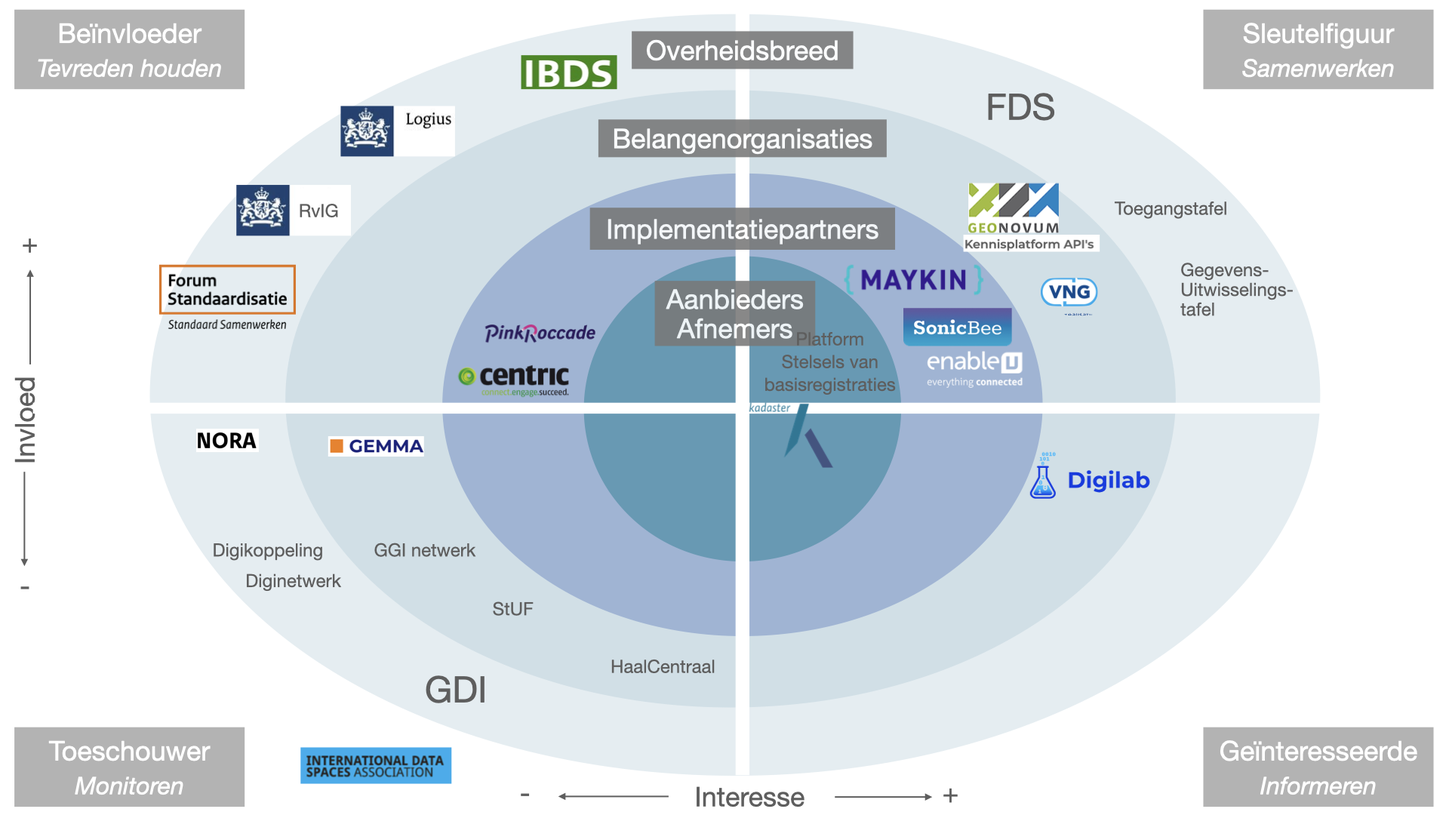
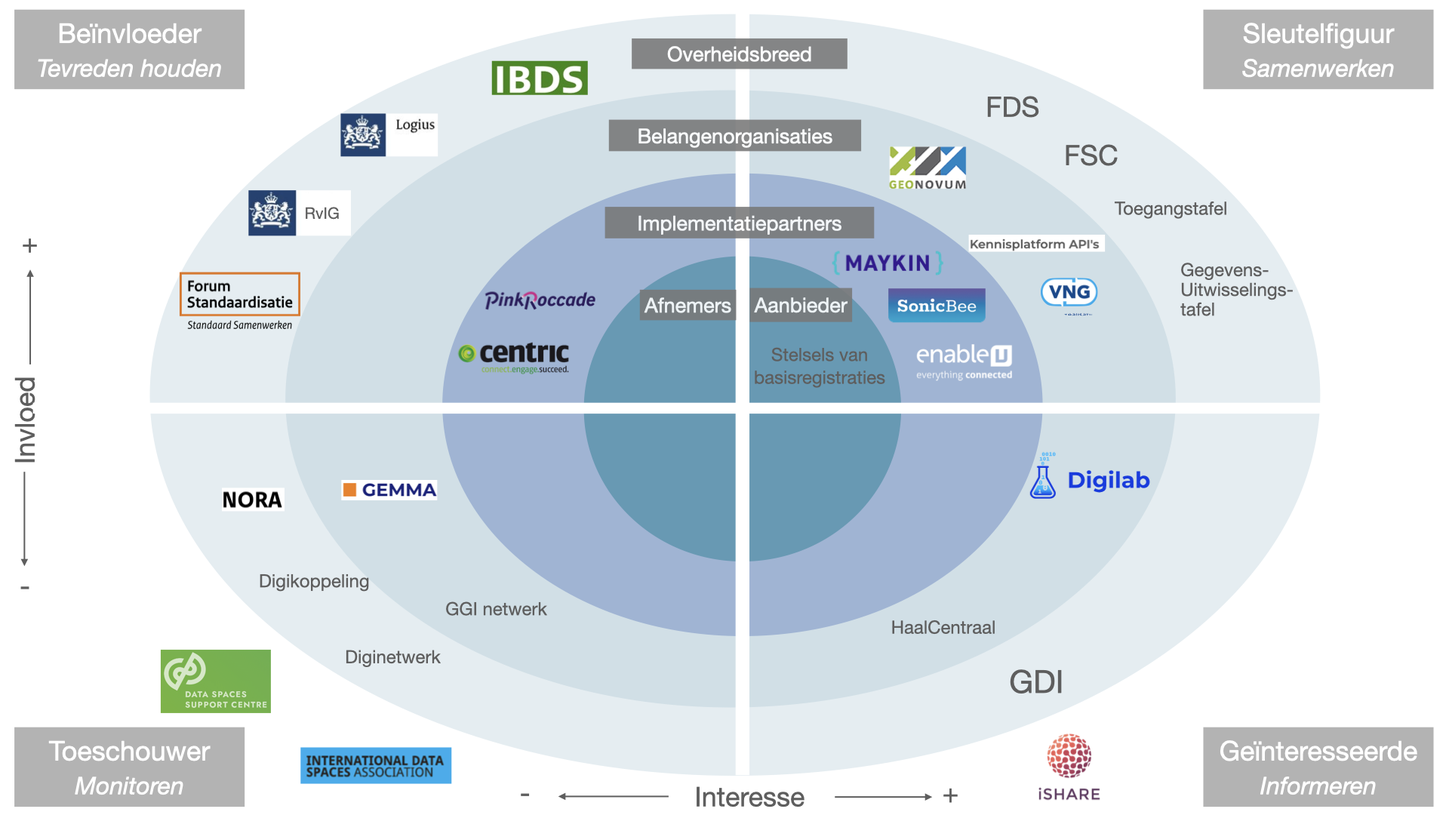
meer loop in het verhaal gebracht

diff --git a/project_documentatie/2.3.0moderne_oplossingsrichtingen.md b/project_documentatie/2.3.0moderne_oplossingsrichtingen.md
@@ -1,64 +1,66 @@
 # Inventarisatie van moderne oplossingen
 
+Om te komen tot mogelijke oplossingsrichtingen inventariseren we eerst de eisen die context
+aan een oplossing stelt, en vervolgens de nadelen aan de bestaande oplossing. 
+Hiermee kunnen we toetsen of de oplossing aan de gevraagde eisen en voordelen tegemoet komt.
+
 ## Relevante richtlijnen vanuit de overheid
 Als overheidsbreed initiatief valt FTV onder GDI. De doelarchitectuur zal zich daarom richten naar de domeinarchitecturen 
 [toegang](https://minbzk.github.io/gdi-toegang/content/views/Domeinarchitectuur%20toegang.html) en
 [gegevensuitwisseling](https://minbzk.github.io/gdi-gegevensuitwisseling/content/views/Domeinarchitectuur%20gegevensuitwisseling.html).
-
 Dit zijn de relevante ontwikkelingen rondom toegangsverlening die vanuit de GDI zijn gesignaleerd:
-- [Contextuele toegangscontrole](https://minbzk.github.io/gdi-toegang/content/elements/id-3a8d1d87c09c4893ab51905141811cbf.html): 
+1. [**Contextuele toegangscontrole**](https://minbzk.github.io/gdi-toegang/content/elements/id-3a8d1d87c09c4893ab51905141811cbf.html): 
 gebruik maken van gegevens uit de context, zoals locatie, apparaat, tijd etc.
-- [Adapatieve toegangscontrole](https://minbzk.github.io/gdi-toegang/content/elements/id-7f4dc8e8532147a7bcaa8b5846799154.html): 
+2. [**Adaptieve toegangscontrole**](https://minbzk.github.io/gdi-toegang/content/elements/id-7f4dc8e8532147a7bcaa8b5846799154.html): 
 veranderend gebruikersgedrag meewegen in toegang. Bijvoorbeeld vanuit een ander land of apparaat inloggen kan een reden zijn om 
 de toegangsverlening aan te passen.
-- [Het zero trust principe](https://minbzk.github.io/gdi-toegang/content/elements/id-be3e1d7fce8c415190791ff10295f078.html): 
+3. [**Het zero trust principe**](https://minbzk.github.io/gdi-toegang/content/elements/id-be3e1d7fce8c415190791ff10295f078.html): 
 niet alleen de buitenschil controleren en daarbinnen volledige toegang geven, maar meer compartimentalisatie, en dan toegangscontrole per compartiment.
-- [Verklaringen](https://minbzk.github.io/gdi-toegang/content/elements/id-44448c40cae246fb9a87e33446f0c0d4.html):
+4. [**Verklaringen**](https://minbzk.github.io/gdi-toegang/content/elements/id-44448c40cae246fb9a87e33446f0c0d4.html):
 het gebruik van gekwalificeerde verklaringen in plaats van rollen, waardoor afgifte en gebruik van attributen van elkaar losgekoppeld worden.
 Beide partijen kennen en erkennen de verklaringen, en kunnen op basis daarvan toegang verlenen.
 Dit kan de toegangsverlening significant eenvoudiger maken, omdat de dienst en de toegang niet op voorhand elkaar hoeven te kennen.
-Dit heet ook wel Attribute Based Credentials (ABC). 
-  - eIDAS 2.0 introduceert de European Digital Identity (EDI) Wallet, waarvan gekwalificeerde verklaring onderdeel zijn. 
-  In Nederlands moet het EDI-stelsel NL daar invulling aan gaan geven. Hierin is nog veel onbekend.
-  - Hier [een onderzoek](https://www.cs.ru.nl/~jhh/publications/abc-of-abcs.pdf)
-- Wissel alleen strikt noodzakelijke gegevens uit. Dit principe heeft een aantal voor toegangsverlening relevante implicaties:
-  - De grondslag en doelbinding van een uitwisseling moet bekend zijn
-  - Per dienst moet bekend zijn welke gegevens noodzakelijk zijn
-  - Voor bevoegde autoriteiten, zoals opsporing, moet het wel mogelijk zijn pseudoniemen te herleiden naar personen of organisaties.
+Dit heet ook wel Attribute Based Credentials (ABC).
+5. **Wissel alleen strikt noodzakelijke gegevens uit**. Dit principe heeft een aantal voor toegangsverlening relevante implicaties:
+   - De grondslag en doelbinding van een uitwisseling moet bekend zijn
+   - Per dienst moet bekend zijn welke gegevens noodzakelijk zijn
+   - Voor bevoegde autoriteiten, zoals opsporing, moet het wel mogelijk zijn pseudoniemen te herleiden naar personen of organisaties.
 
 ## Nadelen aan de huidige toegangsverlening 
 
-### Controle alleen door aanbieder
+1. **Controle alleen door aanbieder.**
 Traditioneel wordt toegangsverlening bepaald en gecontroleerd door de aanbieder.
 Er wordt van tevoren per dienst per afnemer een contract gesloten.
 Vervolgens vraagt de afnemer naar behoefte op, en toetst de aanbieder elke vraag aan het contract.
 
-Hier zitten nadelen aan:
-- Als er veel afnemers zijn, zijn er ook veel contracten. Die vragen veel beheersinspanning, ICT maar vooral ook juridisch.
-- De controleplicht ligt geheel bij de aanbieder. Dit is:
-  - onevenredig veel werk
-  - niet altijd praktisch uitvoerbaar, omdat toegang afhankelijk kan zijn van eigenschappen van de afnemer. 
-De aanbieder kan en wil niet op de hoogte zijn van details van elke afnemer.
-  - niet per se rechtvaardig, omdat afnemers meestal meer baat hebben bij de dienst dan de aanbieders
-  - niet altijd juridisch juist: de afnemer moet verantwoording afleggen aan een bestuursorgaan over verantwoord datagebruik, niet de aanbieder 
-- Verandering van de regels van een dienst vergt aanpassing van alle contracten 
+    Hier zitten nadelen aan:
+   - Als er veel afnemers zijn, zijn er ook veel contracten. Die vragen veel beheerinspanning, ICT maar vooral ook juridisch.
+   - De controleplicht ligt geheel bij de aanbieder. Dit is:
+     - onevenredig veel werk
+     - niet altijd praktisch uitvoerbaar, omdat toegang afhankelijk kan zijn van eigenschappen van de afnemer. 
+   De aanbieder kan en wil niet op de hoogte zijn van details van elke afnemer.
+     - niet per se rechtvaardig, omdat afnemers meestal meer baat hebben bij de dienst dan de aanbieders
+     - niet altijd juridisch juist: de afnemer moet verantwoording afleggen aan een bestuursorgaan over verantwoord datagebruik, niet de aanbieder 
 
-### Beperkte flexibiliteit 
+2. **Beperkte flexibiliteit.** 
 De regels worden over het algemeen vastgelegd in code aan de aanbiederszijde. 
 Aanpassingen van code vraagt relatief veel inspanning en doorlooptijd.
 
-### Beperkte verifieerbaarheid
+3. **Beperkte verifieerbaarheid.**
 Regels die in code zijn vastgelegd, of regels die op een niet-gestandaardiseerde wijze zijn vastgelegd, zijn lastig te controleren. 
 Ze zitten 'verstopt' in code die alleen ontwikkelaars kunnen inzien, of in bestanden die veel kennis vergen om te begrijpen.
 
-### Beperkte standaardisatie
+4. **Beperkte standaardisatie.**
 Omdat er geen breed gedragen standaardmethode is voor toegangsverlening hebben de meeste aanbieders een eigen methode gekozen, 
 veelal ook zelf bedacht. Dat heeft voor de hand liggende nadelen: 
-- ieder doet het denk- en bouwwerk voor zich, dat kost tijd en geld
-- het kost meer moeite elkaar te begrijpen
-- afnemers moeten voor elke aanbieder weer zo goed als van voren af aan beginnen
+   - ieder doet het denk- en bouwwerk voor zich, dat kost tijd en geld
+   - het kost meer moeite elkaar te begrijpen
+   - afnemers moeten voor elke aanbieder weer zo goed als van voren af aan beginnen
 
 ## Oplossingsrichtingen
+
+We beschrijven hier 3 elementen van een moderne oplossingsrichting, en bekijken van elk of die tegemoet komt aan
+de richtlijnen en/of nadelen.
 
 ### Vertrouwensraamwerken 
 Een alternatieve methode van toegang regelen is een vertrouwensraamwerk of trust framework.
@@ -66,7 +68,7 @@ Hierbij wordt uitgegaan van een stelsel van afspraken waarop vertrouwd kan worde
 In zo'n raamwerk voeren afnemer en aanbieder elk hun deel van de controle uit. De aanbieder mag vertrouwen dat de afnemer
 zijn deel gedaan heeft. 
 
-Dit komt tegemoet aan het nadeel 'Controle alleen door aanbieder', dat boven beschreven is, mits de gemaakte
+Dit komt tegemoet aan richtlijn 4 (Verklaringen) en het nadeel 1 (Controle alleen door aanbieder), dat boven beschreven is, op voorwaarde dat de gemaakte
 afspraken nu wel uitvoerbaar, rechtvaardig en juist zijn.
 
 Het concept van gekwalificeerde verklaringen past in een vertrouwensraamwerk. 
@@ -75,12 +77,34 @@ De verklaringen gaan over welke gegevens de afnemer mag weten, niet per se welke
 Door diensten ook uit te drukken in termen van de gegevens die ze bevatten, kan gecontroleerd worden of de vraag vertrouwd is,
 zelfs als afnemer en aanbieder elkaar niet kennen.
 
+Gekwalificeerd verklaringen maken al deel uit van eIDAS 2.0 in de vorm van de European Digital Identity (EDI) Wallet.
+In Nederlands moet het EDI-stelsel NL daar invulling aan gaan geven; hierin is nog veel onbekend.
+
+> Nog te evalueren [een onderzoek](https://www.cs.ru.nl/~jhh/publications/abc-of-abcs.pdf)
+
 ### Mens &egrave;n machineleesbare toegangsregels
 Door toegangsregels (Engels Policies) vast te leggen in een gestandaardiseerd formaat dat door machines gelezen en uitgevoerd kan worden
 wordt het makkelijker om het beleid aan te passen, omdat er geen code aangepast hoeft te worden.
 
 En door toegangsregels tegelijkertijd zodanig inzichtelijk te maken dat ze door niet-ontwikkelaars begrijpelijk en aanpasbaar zijn 
 wordt de flexibiliteit en verifieerbaarheid beter.
+
+Deze regels komen daarmee tegemoet aan nadelen 2 (flexibiliteit) en 3 (verifieerbaarheid).
+
+### Policy Based Access Control
+PBAC is een methodiek die een aantal elementen combineert:
+- Toegangsregels worden in aparte machine-uitvoerbare bestanden vastgelegd (nadelen 2 en 3)
+- De context (locatie, tijd, etc.) kan worden gebruikt in toegangsregels (richtlijn 1)
+
+PBAC is in eerdere papers vergeleken (door [FDS](https://federatief.datastelsel.nl/kennisbank/pbac/#hoe-werkt-pbac-over-verschillende-organisaties-in-een-federatief-datastelsel) en door [GEMMA](https://www.gemmaonline.nl/wiki/WMA_RBAC_ABAC_en_PBAC)), en ook
+concreet voorgesteld onder [GEMMA](https://www.gemmaonline.nl/wiki/WMA_Informatiearchitectuur).
+
+Let wel, PBAC is een methodiek en (nog) geen standaard. 
+De invullingen die aan PBAC gegeven zijn vertonen weliswaar veel overeenkomsten, maar er is nog veel ruimte voor
+eigen interpretatie.
+
+Aan richtlijnen 2, 3 en 5 zal in de implementatie tegemoet gekomen moeten worden. 
+Nadeel 4 wordt impliciet geadresseerd door met een standaard te komen.
 
 ## Risico's en bezwaren
 

diff --git a/project_documentatie/1.doelstellingen.md b/project_documentatie/1.doelstellingen.md
@@ -9,9 +9,10 @@ Er bestaat nu een grote diversiteit aan oplossingen voor toegangsverlening. Dat 
 
 De doelstellingen van het project, en hoe een standaardmethodiek een oplossing voor de uitdagingen kan zijn, luidt als volgt: 
 
-1. **Verbeterde technische interoperabiliteit**. API's en hun afnemers zullen beter op elkaar aansluiten als ze een gedeelde, bekende methodiek gebruiken.
-2. **Verlaging van de beheerslast**. E&eacute;n enkele methodiek meerdere malen toepassen levert op termijn besparingen tijdens ontwerp, realisatie en beheer.
-3. **Verhoging van in controle zijn op toegangsbeslissingen**. Door beslissingen gestandaardiseerd te implementeren wordt het eenvoudiger de juistheid te verifi&euml;ren en te monitoren.
+1. **Verbeterde technische interoperabiliteit**. API's en hun afnemers zullen beter op elkaar aansluiten als ze de dezelfde methodiek gebruiken.
+2. **Verlaging van de beheerslast**. E&eacute;n enkele methodiek meerdere malen toepassen levert op termijn besparingen in ontwerp, realisatie en beheer.
+3. **Verhoging van in controle zijn op toegangsbeslissingen**. Door beleid gestandaardiseerd te implementeren wordt het eenvoudiger de juiste toepassing 
+ervan te verifiëren en te monitoren.
 4. **Geef richting aan het transitiepad naar de eindsituatie**. 
 
 ## Context
@@ -20,42 +21,47 @@ De doelstellingen van het project, en hoe een standaardmethodiek een oplossing v
 
 Deze opdracht is verstrekt vanuit BZK, en wordt uitgevoerd door VNG Realisatie. Voor praktische uitvoering en ondersteuning is aansluiting bij Digilab gevonden.
 
-Qua sturing valt dit onderwerp binnen het programma Realisatie IBDS, en daarbinnen onder het [Federatieve Datastelsel](https://federatief.datastelsel.nl/). 
-Waar mogelijk wordt de methodiek geschikt gemaakt om ook buiten het FDS gebruikt te worden, maar de primaire doelstelling is FDS.
+Qua sturing valt dit onderwerp binnen het programma Realisatie IBDS, en daarbinnen onder het [Federatieve Datastelsel](https://federatief.datastelsel.nl/).
+Het primaire doelgebied is het FDS, en secundair wordt gekeken of dezelfde of andere methodieken buiten het FDS inzetbaar zijn.
 
 ### Architectuur
 
-Als opdracht van BZK valt dit onder de MIDO en de IBDS, en is gehouden aan de architectuur- en andere principes van die stelsels.
-Dat is in brede zin de GDI, en in het bijzonder de domeinarchitecturen [Gegevensuitwisseling](https://minbzk.github.io/gdi-gegevensuitwisseling/content/views/Domeinarchitectuur%20gegevensuitwisseling.html) en [Toegang](https://minbzk.github.io/gdi-toegang/content/views/Domeinarchitectuur%20toegang.html).
+Als opdracht van BZK valt dit project onder de [MIDO](https://www.digitaleoverheid.nl/mido/) en de [IBDS](https://www.digitaleoverheid.nl/interbestuurlijke-datastrategie/), en is gehouden aan de architectuur- 
+en andere principes van die stelsels. Dat is in brede zin de [GDI](https://www.digitaleoverheid.nl/mido/generieke-digitale-infrastructuur-gdi/), 
+en in het bijzonder de domeinarchitecturen [Gegevensuitwisseling](https://minbzk.github.io/gdi-gegevensuitwisseling/content/views/Domeinarchitectuur%20gegevensuitwisseling.html) en [Toegang](https://minbzk.github.io/gdi-toegang/content/views/Domeinarchitectuur%20toegang.html).
 
 De methodiek zal de eigenschap 'federatief' dragen, passend in het FDS. Dat wil zeggen dat toegangsverlening niet gecentraliseerd zal zijn rond een enkel vertrouwd punt, en ook niet in gescheiden silo's zal plaatsvinden,
-maar een collectief stelsel van afspraken zal zijn. Een samenwerkingsverband.
+maar een collectief stelsel van afspraken zal zijn, een samenwerkingsverband.
 
 ## Scope
+
+Met een aantal sleutelwoorden in de doelstelling bepalen we onze scope:
 
 ***Definieer*** wil zeggen dat er methodiek wordt voorgesteld, en niet per se gerealiseerd. 
 Een goede beschrijving van de methode, een breed begrip en draagvlak, en uiteindelijk ook adoptie ervan, dat is het primaire doel.
 Er zullen ook tastbare technische resultaten zijn, om aan te tonen dat de methodiek haalbaar, schaalbaar en veilig is. 
-Daarnaast kan een referentie-implementatie gemaakt worden als educatief instrument en als half-fabrikaat, mocht dat in het verloop van het project wenselijk blijven.
+Daarnaast kan een referentie-implementatie gemaakt worden als educatief instrument en als halffabrikaat, mocht dat in het verloop van het project wenselijk blijven.
 Het is expliciet niet de bedoeling om een softwareproduct op te leveren dat in productie genomen kan worden.
 
 Door het aspect ***toegangsverlening*** oftewel autorisatie uit te lichten worden expliciet andere aspecten zoals identificatie, authenticatie en encryptie buiten beschouwing gelaten.
 Vanzelfsprekend zijn dit wel cruciale aspecten, die ook spelen bij het uitwisselen van informatie over autorisatie,
-en daarmee voorwaardelijk aan verantwoordelijke gegevensuitwisseling als geheel.
+en daarmee voorwaardelijk aan verantwoordelijke gegevensuitwisseling als geheel, maar vallen buiten deze scope.
 
 De toevoeging ***tot API's*** beperkt het project tot geautomatiseerde gegevensuitwisseling. 
-Het gaat niet over autorisatie via een niet-digitaal medium en ook niet over direct contact tussen mens en systeem. 
+Het gaat niet over autorisatie via een niet-digitaal medium en ook niet over interacties tussen mens en computer. 
 
-Ook beperkt ***tot API's*** de scope tot uitwisseling waarbij minstens twee gescheiden systemen betrokken zijn.
-Autorisatie binnen een applicatie of dienst die niet via API's verloopt heeft wel een grote overlap in methode en techniek,
+Ook beperkt ***tot API's*** de scope tot uitwisseling waarbij minstens twee door API's verbonden systemen betrokken zijn.
+Autorisatie binnen een applicatie of dienst, of die niet via API's verloopt heeft wel een grote overlap in methode en techniek,
 maar is niet het doel hier. 
 
 ## Terminologie
 
-Nederlands is de voorkeurstaal voor de initi&euml;le documentatie. In code wordt voor Engels gekozen.
+Nederlands is de voorkeurstaal voor de initiële documentatie. In code wordt voor Engels gekozen.
 
 ***Toegangsverlening*** is de Nederlandse term die gekozen is voor het proces. 
 Autorisatie had ook gekund, zeker omdat die term op het Engelse Authorisation lijkt.
 
 ***Toegangsregels*** is de Nederlandse term voor de formalisering van beleid.
 Policies is de Engelse vertaling.
+
+> Verder naar [resultaten](2.0resultaten.md)

diff --git a/project_documentatie/2.3.1semantiek.md b/project_documentatie/2.3.1semantiek.md
@@ -3,26 +3,27 @@
 ## Datamodellen
 Toegangsregels zullen opgesteld worden volgens een of meerdere standaarden.
 Ongeacht de gekozen standaard zullen de regels bestaan uit velden, functies en constanten. 
-Neem als voorbeeld de regel ' de leeftijd moet minstens 18 zijn'. 
+Neem als voorbeeld de regel 'de leeftijd moet minstens 18 zijn'. 
 De functies ('minstens') en constanten ('18') worden door de standaard bepaald, en de velden ('leeftijd') komen uit het domein 
 waarover de regels gaan. In dit voorbeeld is 'leeftijd' een veld dat in een persoonsregistratie bepaald kan worden uit de
 geboortedatum en de huidige datum. Welke velden er bestaan wordt in een datamodel beschreven.
 
 In een niet-federatief stelsel worden toegangsregels niet uitgewisseld, en is er geen noodzaak om een gedeeld model te
-hebben van de velden. Maar in een federatief stelsel worden toegangsregels door beide partijen geautomatiseerd gelezen en uitgevoerd. 
-Daarom is een gedeeld datamodel noodzakelijk om de betekenis van de velden expliciet te maken.
+hebben van de velden. Maar in een federatief stelsel worden toegangsregels door beide partijen geautomatiseerd gelezen, 
+en is een gedeeld datamodel noodzakelijk om de betekenis van de velden expliciet te maken.
 
-Het lijkt voor de hand te liggen om een voor de gegevens en voor de toegangsregels op die gegevens hetzelfde model te gebruiken,
+_Kanttekeningen_
+
+- Het lijkt voor de hand te liggen om voor de gegevens zelf en voor de toegangsregels op die gegevens hetzelfde model te gebruiken,
 maar dat hoeft niet. Als er op een bestaande koppeling verbeterde toegangsverlening wordt geplaatst, hoeft het gegevensdeel van
 de koppeling niet noodzakelijk aangepast te worden.
-
-Ook zo lijkt het voor de hand te liggen dat er &eacute;&eacute;n bestand/bron is van de toegangsregels, die beide partijen gebruiken.
+- Ook zo lijkt het voor de hand te liggen dat er &eacute;&eacute;n bestand/bron is van de toegangsregels, die beide partijen gebruiken.
 Immers, als beiden uit dezelfde bron hun regels halen, dan is er zekerheid dat ze dezelfde regels hanteren. 
 Ook dit hoeft niet per se: het is voldoende dat er een methode is om vast te stellen dat dezelfde regels gehanteerd zijn,
 bijvoorbeeld dat ze dezelfde versie gebruikt hebben.
 
 ## Linked Data
-Een modern concept over semantiek van gegevens is het semantische web of [Linked Data](https://en.wikipedia.org/wiki/Linked_data). 
+Een moderne zienswijze op semantiek van gegevens is het semantische web of [Linked Data](https://en.wikipedia.org/wiki/Linked_data). 
 Door metadata toe te voegen aan de gegevensbronnen, en vervolgens die bronnen aan elkaar te koppelen, ontstaat een grotere
 samenhangende set gegevens, een dataset. Er zijn eenduidige standaarden voor de manier van metadata specificeren 
 ([RDF](https://en.wikipedia.org/wiki/Resource_Description_Framework)), 
@@ -30,13 +31,15 @@ welke metadata er minimaal moet zijn ([DCAT](https://en.wikipedia.org/wiki/Data_
 en voor koppelingen ([URI's](https://en.wikipedia.org/wiki/Uniform_Resource_Identifier)). Ook voor het doorzoeken van de ontstane dataset
 zijn standaarden ([GraphQL](https://en.wikipedia.org/wiki/GraphQL)).
 
-De Nederlandse overheid heeft deze methodiek omarmd met beleid over [Open Data](https://data.overheid.nl/ondersteuning/open-data/beleid),
+De Nederlandse overheid heeft deze methodiek omarmd in haar beleid over [Open Data](https://data.overheid.nl/ondersteuning/open-data/beleid),
 en een eigen catalogus [DCAT-DONL](https://docs.datacommunities.nl/data-overheid-nl-documentatie/dcat/dcat-ap-donl).
-Ook het stelsel van basisregistraties heeft een overkoepelend datamodel gedefinieerd en als 
-[RDF-datamodel](https://stelselvanbasisregistraties.nl/details/DATASET/STCdata) beschikbaar gesteld.
+Ook het stelsel van basisregistraties heeft een overkoepelend datamodel gedefinieerd en 
+[beschikbaar gesteld](https://stelselvanbasisregistraties.nl/details/DATASET/STCdata).
 
 Het stelselmodel biedt kansen om de velden van toegangsregels uit te drukken zonder een nieuw datamodel of methodiek te introduceren.
 Daarbij is het goed om te beseffen dat de koppelingen zelf niet per se gebruik hoeven te maken van dit datamodel;
 dit zou federatieve toegangsverlening afhankelijk maken van ingrijpende aanpassingen aan de koppelingen zelf.
+
+> Open onderzoek: in hoeverre heeft Linked Data iets te bieden aan FTV? Of zijn het aparte onderwerpen?
 
 > Door naar [PBAC](2.3.2federatief_pbac.md) 

diff --git a/project_documentatie/2.2huidige_oplossingen.md b/project_documentatie/2.2huidige_oplossingen.md
@@ -4,7 +4,7 @@
 Als we gaan kijken naar 'huidige oplossingen' dan beperken we ons tot in productie zijnde API's
 binnen het stelsel van basisregistraties, inclusief sectorale registraties. 
 
-Daarnaast zijn er voorgestelde oplossingen die niet uitgevoerd zijn,
+Er zijn voorgestelde oplossingen die niet uitgevoerd zijn,
 oplossingen buiten het stelsel, open API's, en oplossingen die niet met API's te maken hebben. 
 Die laten we buiten beschouwing.
 
@@ -32,12 +32,11 @@ De volgende koppelstandaarden zijn relevant om als context te zien:
   Digikoppeling omvat, bovenop een encryptielaag, de standaarden ebMS2, WUS, REST en Grote Berichten, die elk een methodiek van koppelen 
   beschrijven (de applicatielaag).
   - WUS is een samentrekking van 3 wat oudere standaarden WSDL, UDDI en SOAP, en digikoppeling beschrijft de Nederlandse regels over het gebruik daarvan.
-  - Grote Berichten gaat zoals de naam al zegt over het uitwisselen van grote berichten.
+  - Grote Berichten gaat, zoals de naam al zegt, over het uitwisselen van grote berichten.
   - REST is een standaard die wereldwijd voor alle moderne API's gebruikt wordt. De beschrijving onder digikoppeling zegt meer over hoe
 de Nederlandse overheid REST toepast. 
 - **StUF**. Een standaard bovenop WUS die een XML-formaat voor berichtenuitwisseling beschrijft.
-- **HaalCentraal**. Een set van afspraken en standaarden waarmee voor basisregistraties RESTful API's volgens overheidsregels kunnen worden 
-gerealiseerd en beheerd. 
+- **HaalCentraal**. Een set van afspraken en standaarden bovenop Digikoppeling REST, specifiek voor basisregistraties.
 
 Voor dit project stellen we dat StUF, ebMS2, WUS en Grote Berichten een oudere generatie zijn en niet als API's gezien worden 
 in onze terminologie.

diff --git a/project_documentatie/2.3.2federatief_pbac.md b/project_documentatie/2.3.2federatief_pbac.md
@@ -1,14 +1,18 @@
 # PBAC in een federatief stelsel
 
-## PBAC
-De voordelen van PBAC zijn in verschillende vergelijkingen onderzocht.
-We kijken voor dit project specifiek naar de opstelling met PBAC aan beide zijden van de API aanroep, 
+De voorgestelde oplossing is gebruik maken van PBAC in een federatief stelsel.
+
+We kijken voor dit project specifiek naar de opstelling met PBAC aan beide zijden van de API aanroep,
 zoals beschreven in [dit hoofdstuk.](https://federatief.datastelsel.nl/kennisbank/pbac/#hoe-werkt-pbac-over-verschillende-organisaties-in-een-federatief-datastelsel)
 
-Nader uit te werken aspecten zijn:
-- Welke **notatiestandaard** te kiezen.
-- Welke **policy engine** te kiezen/bouwen.
-- **Beheer van policies.** Het beheer van toegangsregels wordt snel bewerkelijk. Van RBAC en ABAC wordt gezegd dat het snel onoverzichtelijk
+## To do
+> Verder onderzoek dient gedaan te worden naar:
+> - Gebruik van PBAC in andere trust frameworks
+
+> Nader uit te werken aspecten zijn:
+> - Welke **notatiestandaard** te kiezen.
+> - Welke **policy engine** te kiezen/bouwen.
+> - **Beheer van policies.** Het beheer van toegangsregels wordt snel bewerkelijk. Van RBAC en ABAC wordt gezegd dat het snel onoverzichtelijk
 wordt als er veel rollen respectievelijk attributen zijn. Bij PBAC kan dat net zo goed gebeuren, zeker omdat de regels
 in de meeste notaties lastig te lezen zijn. Een vorm van 
-- **Logging**
+> - **Logging**

diff --git a/project_documentatie/2.1stakeholders.md b/project_documentatie/2.1stakeholders.md
@@ -1,6 +1,8 @@
 # Stakeholders
 Op onderstaande kaart zijn de stakeholders uitgezet. 
 
+![Kaart van stakeholders](2.1stakeholder_map.png)
+
 ### Leeswijzer
 De horizontale as gaat over interesse. 
 Aan de rechterkant geplaatste stakeholders hebben meer interesse in het onderwerp FTV dan de links geplaatste. 
@@ -10,8 +12,8 @@ De verticale as gaat over invloed.
 Boven het midden geplaatste stakeholders kunnen meer invloed uitoefenen op de resultaten. 
 Dat kan zijn omdat ze advies geven, omdat ze concreet daan meewerken aan de producten, of bijvoorbeeld het onderwerp kunnen agenderen.
 
-**Let op**
-Hoe ver een stakeholder naar links/rechts of boven/beneden staat geeft niet per se weer hoeveel invloed en interesse er is. 
-De plaatsing is eerder een gevolg van de praktische vormgeving.
+**Let op**:
+Hoe ver een stakeholder naar links/rechts of boven/beneden staat geeft niet per se weer hoeveel invloed dan wel interesse er is. 
+De plaatsing is eerder een praktische gevolg van de vormgeving.
 
-![Kaart van stakeholders](2.1stakeholder_map.png)
+> Verder naar [huidige oplossingen](2.2huidige_oplossingen.md)

diff --git a/project_documentatie/2.0resultaten.md b/project_documentatie/2.0resultaten.md
@@ -14,9 +14,9 @@ De beoogde resultaten van fase 1 zijn, zoals vastgelegd in de subsidieaanvraag:
 - start ontwikkelaar (1 juli)
 - eerste versie stakeholder kaart (3 juli)
 - project publiek zichtbaar op Gitlab (12 juli)
+- Scope en context in kaart brengen (19 juli)
 
 ### Huidige activiteiten
-- Scope en context in kaart brengen
 - Contact maken met platforms en projecten in de context
 - **Inventariseren (in overheidscontext)** van 
   - toegangsverleningsoplossingen zoals nu in productie gebruikt worden
@@ -27,8 +27,11 @@ De beoogde resultaten van fase 1 zijn, zoals vastgelegd in de subsidieaanvraag:
 - **Inventariseren (in de markt)** van
   - standaarden voor policies
   - systemen en platforms voor PBAC
+- **Inventariseren (in de markt)** van
+  - andere vertrouwensraamwerken
 
 ## Planning en status
 
 ![2.0planning.png](2.0planning.png)
+
 

diff --git a/project_documentatie/4.2.links_pbac.md b/project_documentatie/4.2.links_pbac.md
@@ -9,6 +9,7 @@
     - [Usage Control Language](https://docs.internationaldataspaces.org/ids-knowledgebase/v/ids-g/usagecontrol/contract)
   - [Gaia-X](https://www.gaia-x.eu/)
   - [Open DEI](https://design-principles-for-data-spaces.org/)
+    - [Design Principles for Data Spaces](https://design-principles-for-data-spaces.org/)
 - [Vergelijking gemaakt door Geonovum](https://docs.geostandaarden.nl/eu/VerkenningDataspaces/)
 
 ## Policytalen en -producten
